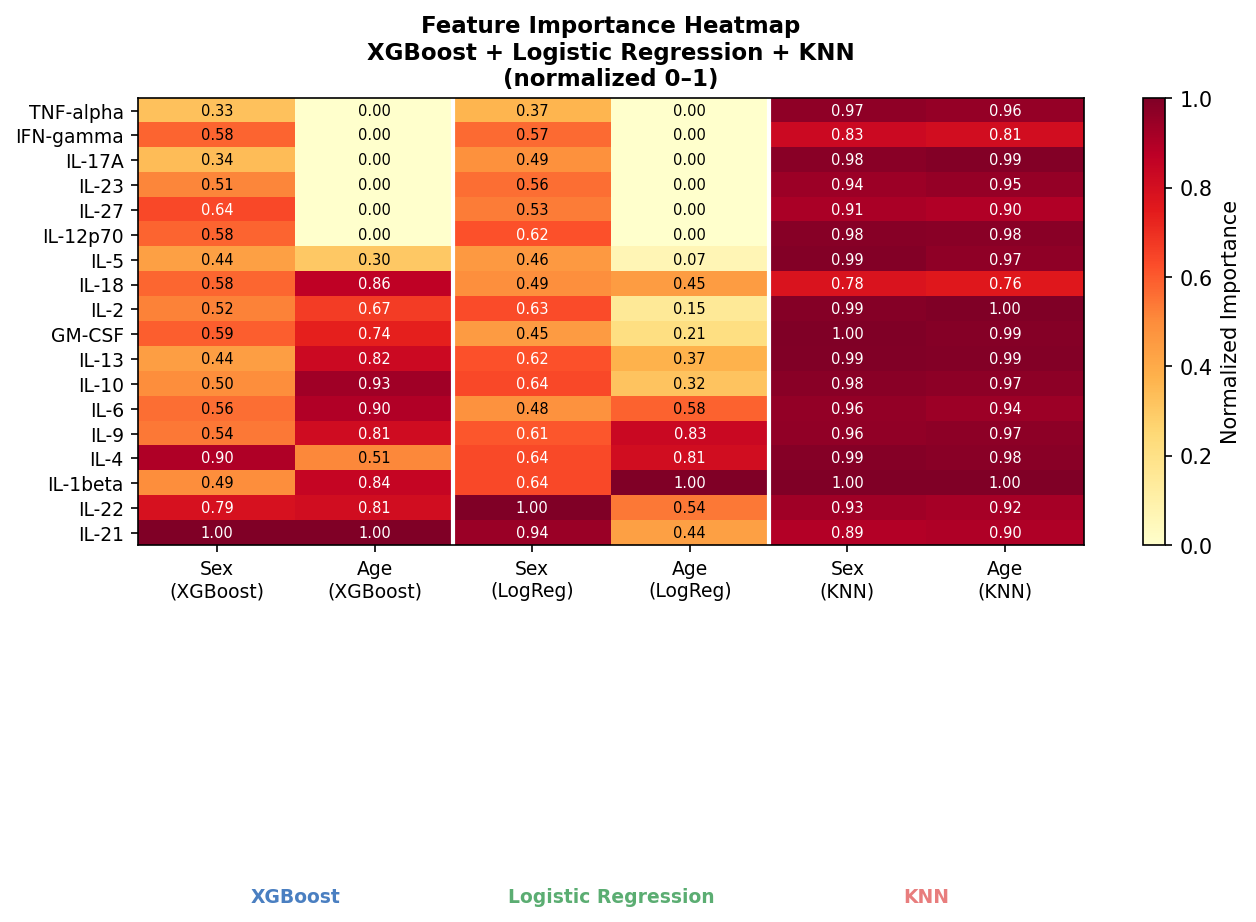
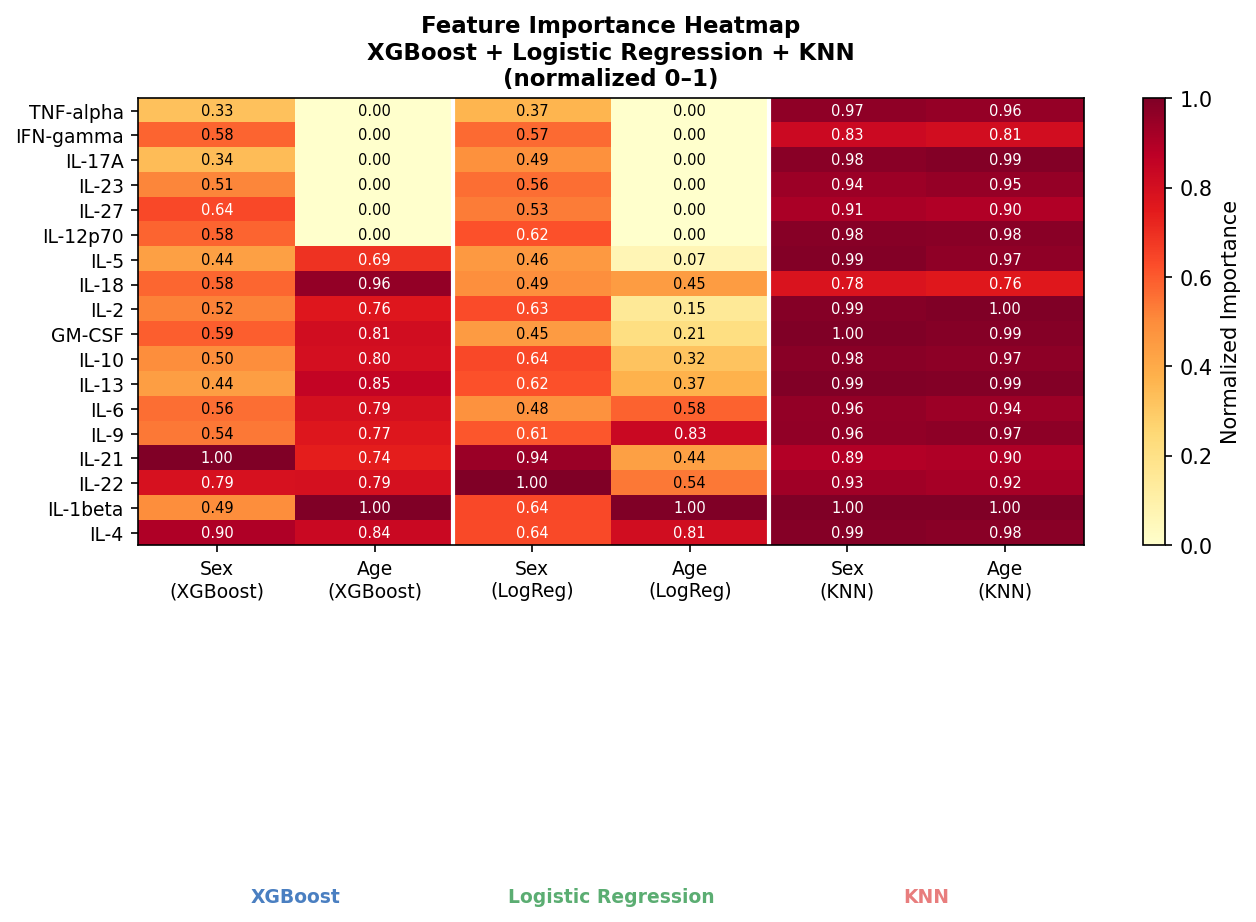
changed feature heatmap

Changed region(s): [[0.0311, 0.243, 0.8694, 0.6074], [0.1553, 0.3644, 0.1863, 0.4252]]

diff --git a/PCA+KNN-Emma/feature-importance-visual.py b/PCA+KNN-Emma/feature-importance-visual.py
@@ -349,6 +349,53 @@ plt.close()
 print("✓ Saved: feature_importance_heatmap_combined.png")
 
 # ============================================================================
+# FIGURE: Sex-only heatmap — XGBoost + LogReg + KNN
+# ============================================================================
+# ============================================================================
+# FIGURE: Sex-only heatmap — XGBoost + LogReg + KNN (models as rows)
+# ============================================================================
+fig_sex, ax_sex = plt.subplots(figsize=(14, 4))
+
+all_features_sex = sorted(set(merged["Feature"]) | set(merged_lr["Feature"]))
+
+xgb_sex_only = merged.set_index("Feature").reindex(all_features_sex)["Sex_norm"].fillna(0).values
+lr_sex_only  = merged_lr.set_index("Feature").reindex(all_features_sex)["Sex_LR_norm"].fillna(0).values
+knn_sex_only = knn_sex_imp.set_index("Cytokine").reindex(all_features_sex)["norm"].fillna(0).values
+
+# Shape: (3 models, n_cytokines)
+heatmap_sex = np.row_stack([xgb_sex_only, lr_sex_only, knn_sex_only])
+
+# Sort cytokines by combined importance across all models
+sort_order_sex      = np.argsort(heatmap_sex.sum(axis=0))[::-1]
+heatmap_sex         = heatmap_sex[:, sort_order_sex]
+features_sex_sorted = [all_features_sex[i] for i in sort_order_sex]
+
+im_sex = ax_sex.imshow(heatmap_sex, cmap="YlOrRd", aspect="auto",
+                       vmin=0, vmax=1)
+ax_sex.set_xticks(range(len(features_sex_sorted)))
+ax_sex.set_xticklabels(features_sex_sorted, rotation=45, ha="right", fontsize=9)
+ax_sex.set_yticks([0, 1, 2])
+ax_sex.set_yticklabels(["XGBoost", "LogReg", "KNN"], fontsize=10)
+ax_sex.set_title("Feature Importance — Sex Prediction\n(normalized 0–1, cytokines sorted by combined importance)",
+                 fontsize=11, fontweight="bold")
+plt.colorbar(im_sex, ax=ax_sex, label="Normalized Importance")
+
+for i in range(3):
+    for j in range(len(features_sex_sorted)):
+        val = heatmap_sex[i, j]
+        ax_sex.text(j, i, f"{val:.2f}", ha="center", va="center",
+                    fontsize=7,
+                    color="white" if val > 0.6 else "black")
+
+ax_sex.axhline(0.5, color="white", linewidth=2)
+ax_sex.axhline(1.5, color="white", linewidth=2)
+
+plt.tight_layout()
+plt.savefig(OUTPUT_DIR / "feature_importance_heatmap_sex.png",
+            dpi=150, bbox_inches="tight", facecolor="white")
+plt.close()
+print("✓ Saved: feature_importance_heatmap_sex.png")
+# ============================================================================
 # SUMMARY PRINT
 # ============================================================================
 print(f"\n✓ All figures saved to: {OUTPUT_DIR}")
